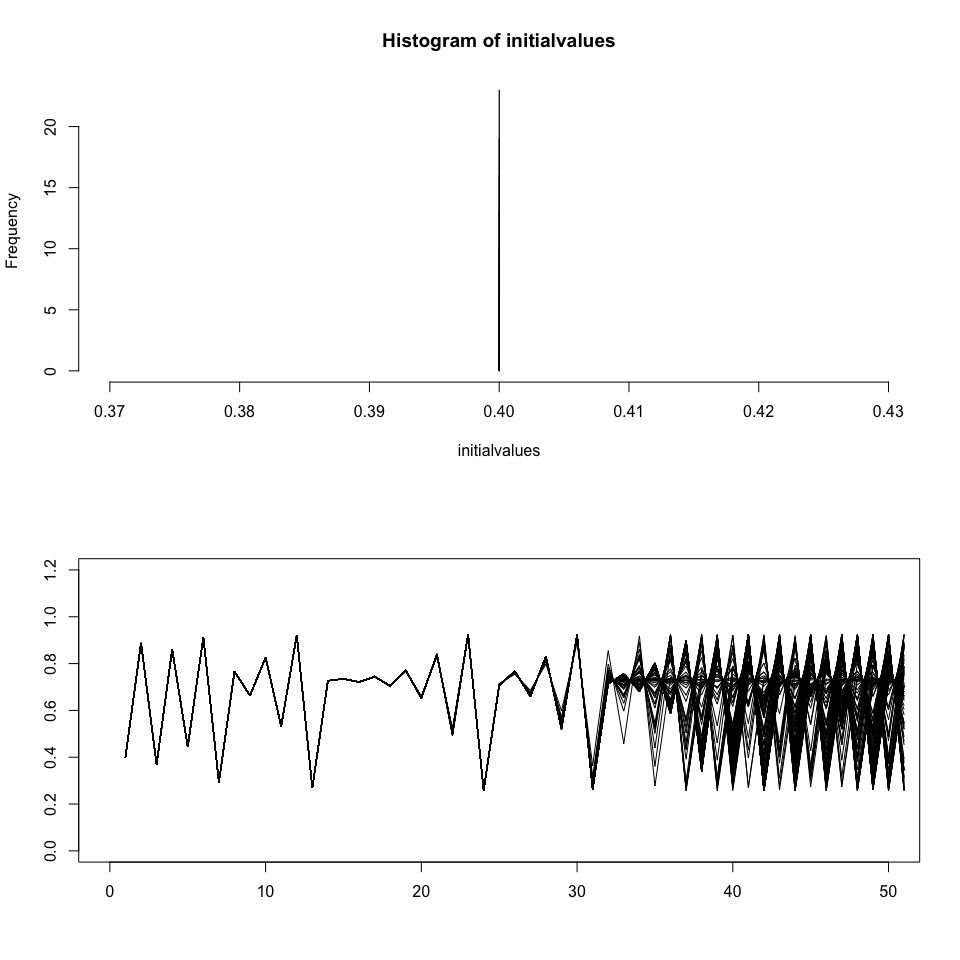
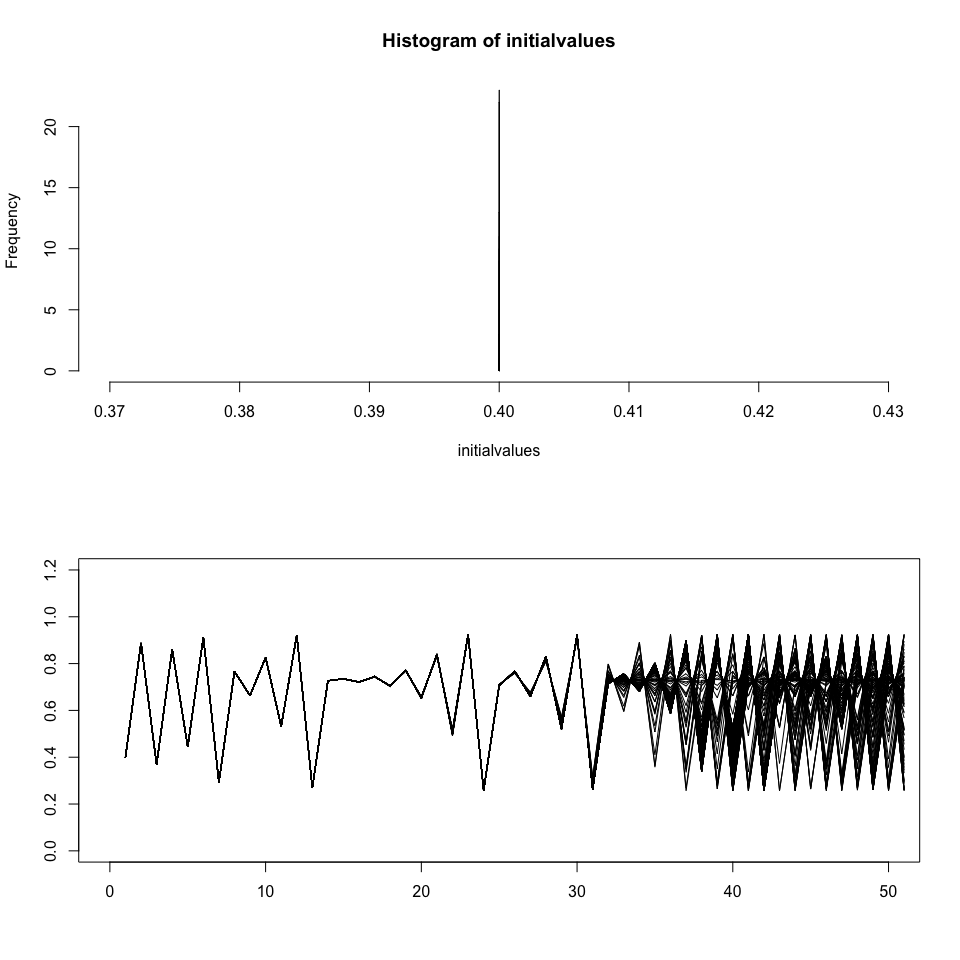
update chaos

Changed region(s): [[0.625, 0.6562, 0.9375, 0.8125], [0.5938, 0.75, 0.625, 0.7812]]

diff --git a/Code/Tag3-SensitivityAndUncertainty/Chaos/Chaos.md b/Code/Tag3-SensitivityAndUncertainty/Chaos/Chaos.md
@@ -1,6 +1,5 @@
 # Chaos in the logistic map
 Florian Hartig  
-`r format(Sys.Date(), "%B %d, %Y")`  
 
 
 
@@ -16,6 +15,7 @@ logisticMap <- function (N0 = 0.2, r=1.7, timesteps = 50){
   return(popdyn)          
 }
 
+set.seed(123)
 
 # try out e.g. r = 0.5, 1.5. 2.4, 2.8, 3.5
 
